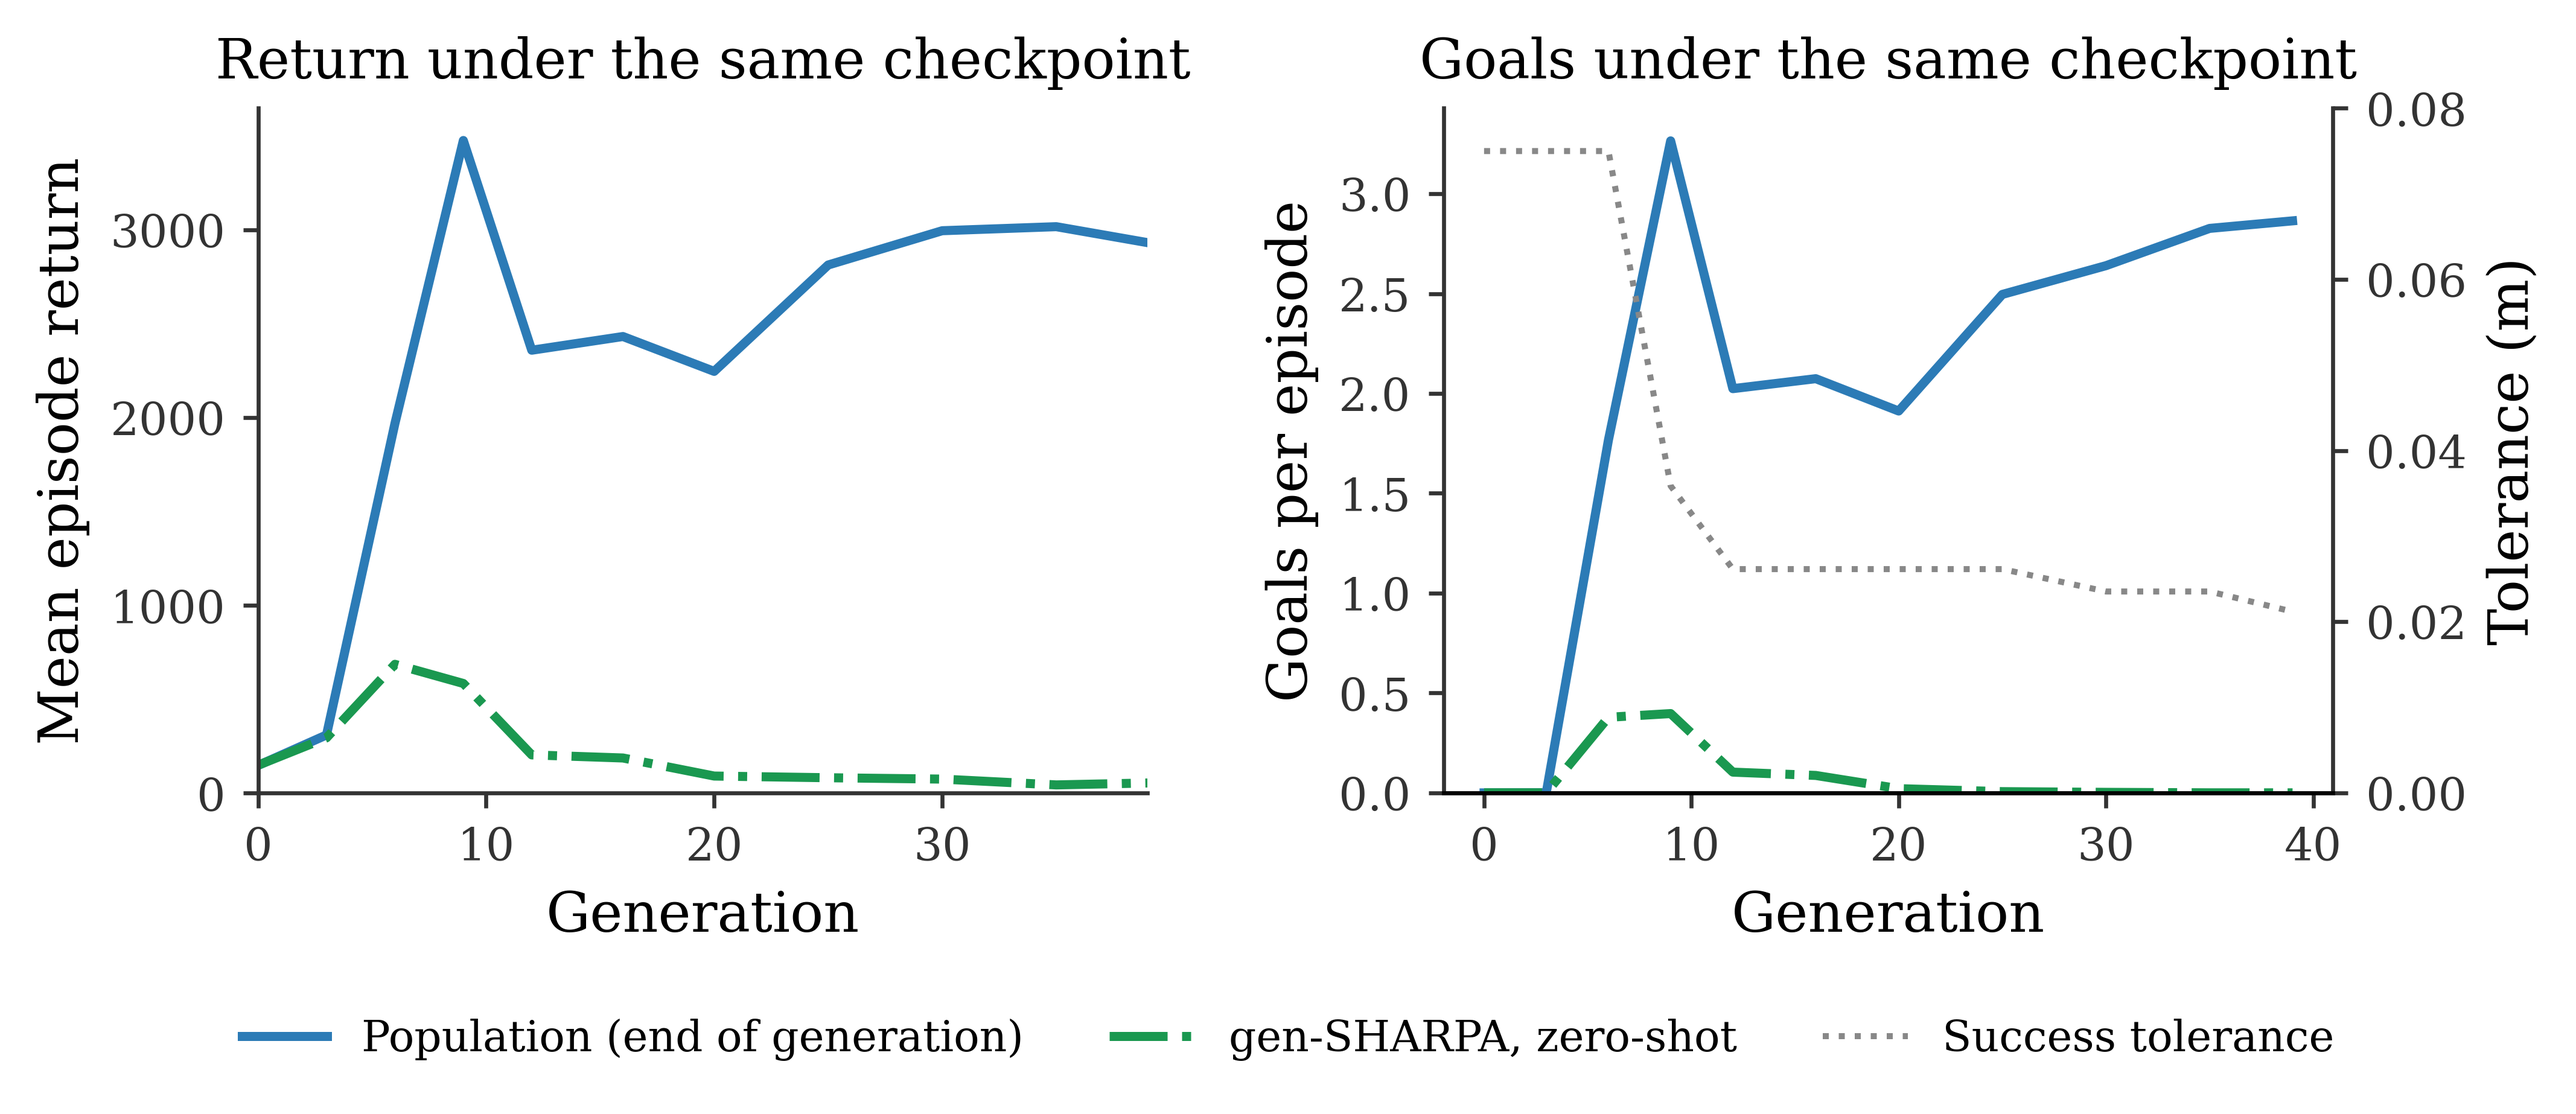
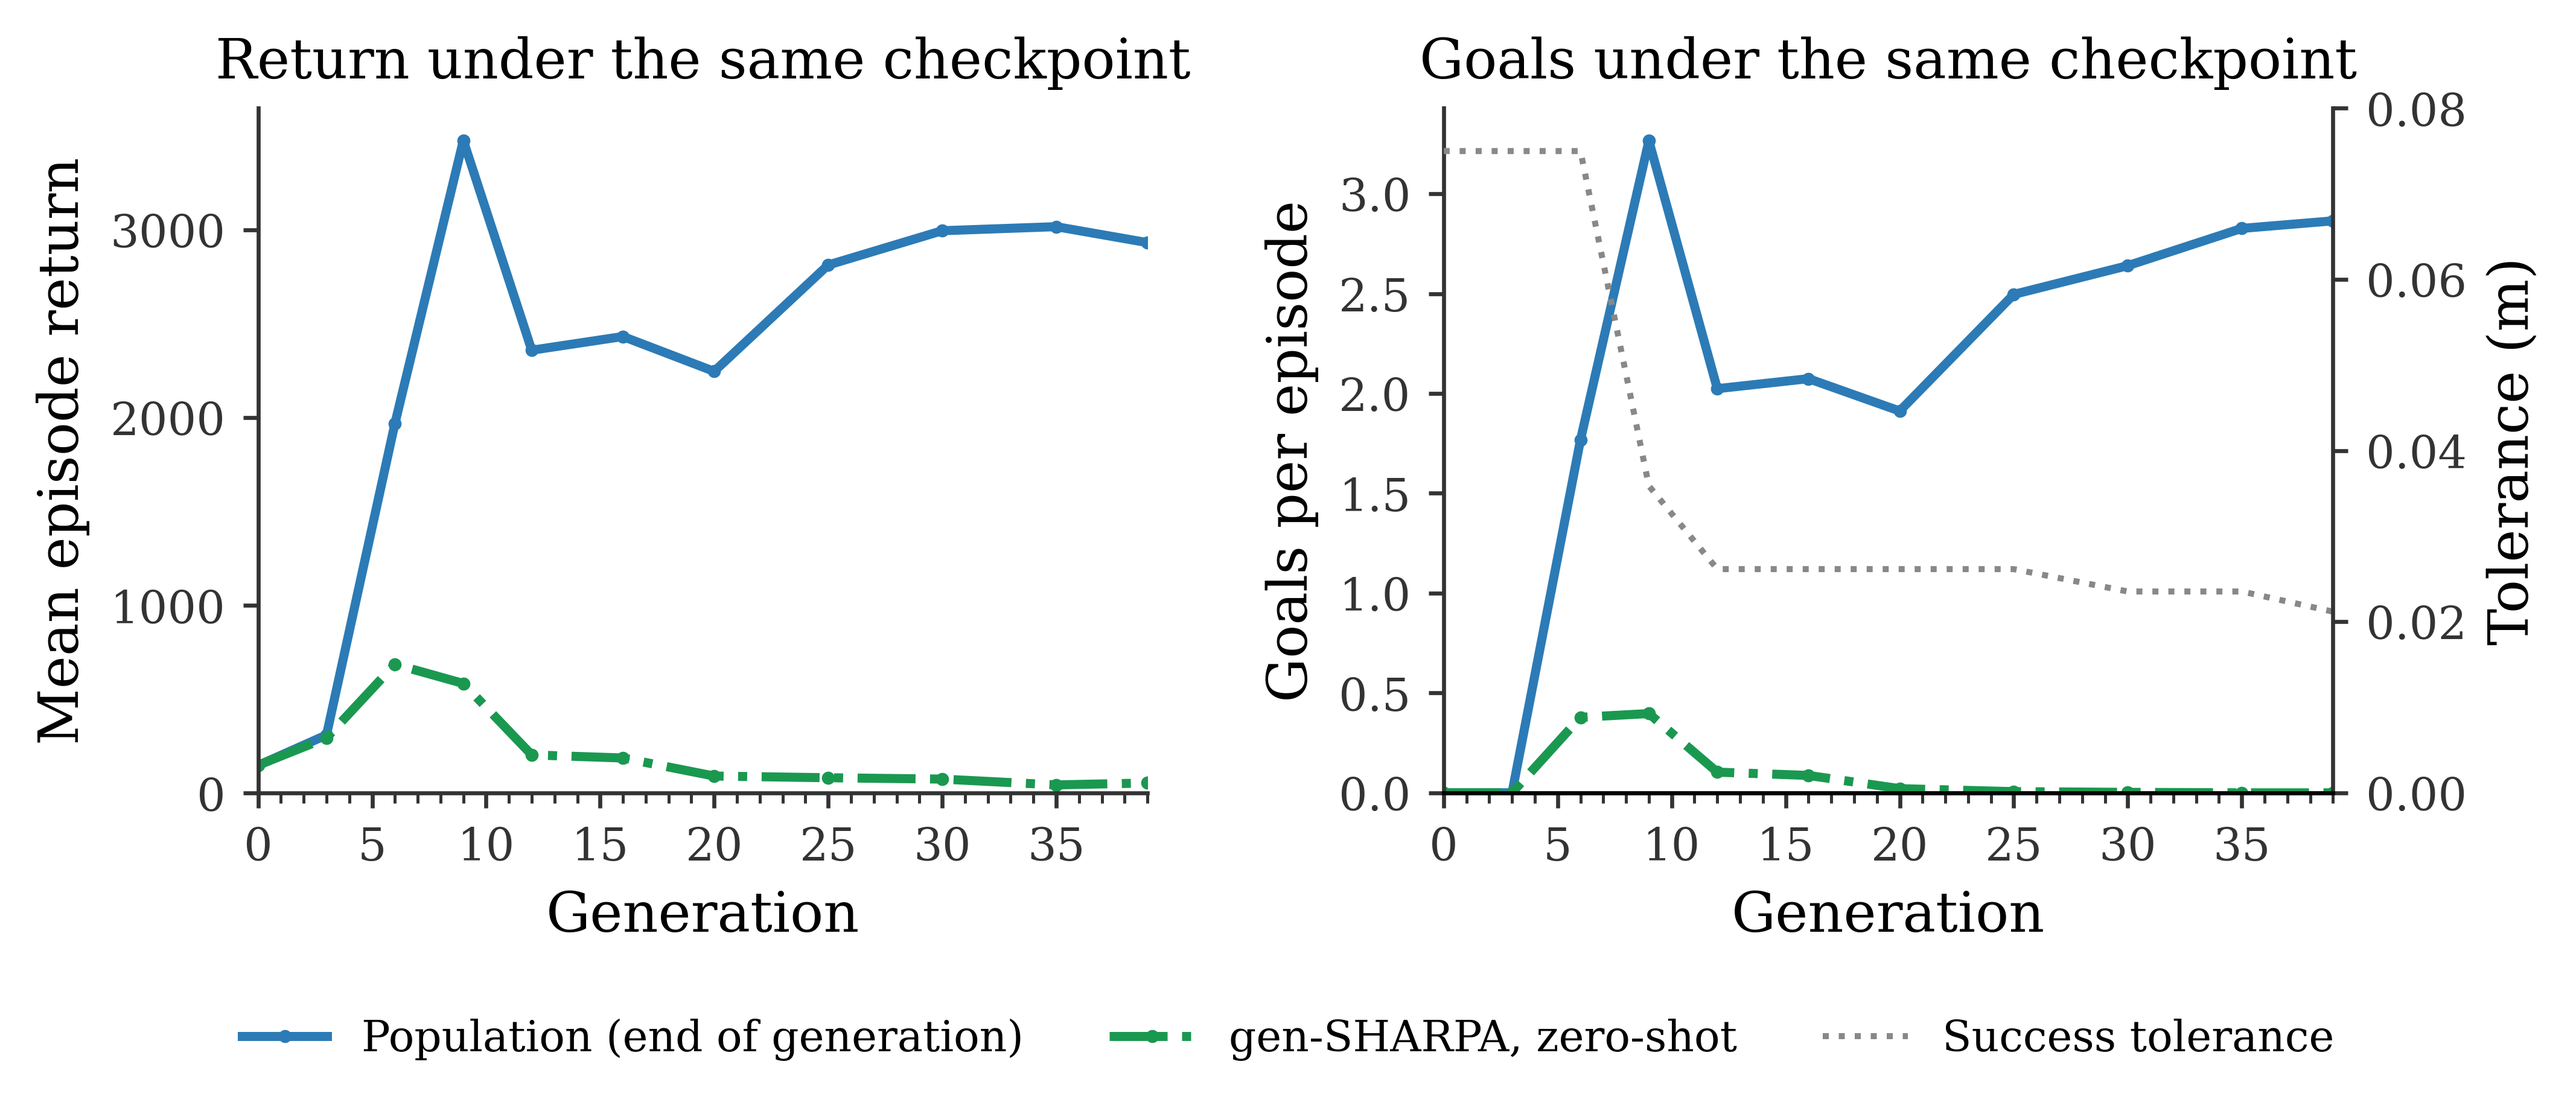
Audit training throughput, and measure population complexity per generation
GPU audit (single-card limits, measured on pinned nodes):
  - at the training minibatch of 114688, one GPU holds 12288 envs; 18432
    dies of torch.OutOfMemoryError. Two GPUs buy env count, not speed --
    1.84x throughput for 2x hardware, an ~8% all-reduce tax.
  - throughput saturates at ~71-72k fps across 18k-27.6k envs and a 4x
    minibatch range, so env count above ~18k is free in time, not in memory.
  - portal-compute-03 runs ~30% slower than -02/-04 at identical config
    (163907 vs 228474 fps step). An earlier unpinned sweep read that as a
    PhysX cliff at 24576 envs; a node-matched pair shows env count moves
    physics fps by 0.2%. Cross-node fps comparisons are not interpretable.
  - two OOM modes both report COMPLETED to slurm and must be grepped
    separately: PhysX "CUDA error, code 2" (sim dies, fps RISES) and
    torch.OutOfMemoryError (exits after ~2 epochs).

run.sh/run_rank.sh take GPUS and MINI_EPOCHS, both defaulting to what every
run so far used, so existing runs are unchanged.

plot_complexity.py answers the Sep 18 action item on whether evolution drives
designs toward complexity: mass, actuated joints, link length and inertia
about the mount, computed from the design alone via the same mass functions
the simulator builds from. On the 2k arm, gen 0 -> 40: mass +37%, joints
+43%, link length +64%, inertia +74% -- and essentially all of it lands
before fixation at gen 12, after which joints are flat and the rest drifts.
[…]

diff --git a/experiments/17sep_coevolution/analysis/plot_complexity.py b/experiments/17sep_coevolution/analysis/plot_complexity.py
@@ -1,0 +1,99 @@
+"""How expensive the population got: mass, actuation and inertia per generation.
+
+The Sep 18 action item asked whether evolution is driving designs toward
+complexity, and named mass and energy. Four measures, all computed from the
+design alone -- no rollout, so every generation is comparable:
+
+  mass        palm + real links, exactly as the simulator builds them
+              (build.palm_mass_props and build.link_mass_props). Ghost padding
+              links are 1e-6 kg and are excluded: they are envelope, not design.
+  joints      actuated degrees of freedom, i.e. how much there is to control
+  link length total structure, summed over every segment
+  inertia     mean principal moment about the palm mount. This is the closest
+              static stand-in for "energy": it is what the arm must accelerate
+              to move the hand, and unlike mass it charges for reach. Each link
+              is a solid cylinder about its own axis (local +x, verified against
+              link_frames: |tip-base| equals the segment length), rotated into
+              the palm frame and shifted to the mount by the parallel-axis
+              theorem; the palm uses its own box tensor about its centre.
+
+What this does NOT measure is actuation energy actually spent, which needs
+rollouts under a policy. These are properties of the morphology.
+
+    .venv_isaacsim/bin/python experiments/17sep_coevolution/analysis/plot_complexity.py [population_dir] [fixation_gen]
+"""
+import sys, json, pathlib
+sys.path[:0] = ["/share/portal/kk837/depthbasedRL/plot_figures"]
+import numpy as np, matplotlib; matplotlib.use("Agg"); import matplotlib.pyplot as plt
+from matplotlib.ticker import MultipleLocator
+from _style import configure_rcparams, style_axis, COLORS
+from hand_sampler import population_io, build
+
+configure_rcparams()
+R = pathlib.Path(sys.argv[1] if len(sys.argv) > 1 else "assets/populations/coevolution_v2_gen2k")
+FIX = int(sys.argv[2]) if len(sys.argv) > 2 else 12
+OUT = pathlib.Path(__file__).resolve().parent.parent / "plots"; OUT.mkdir(exist_ok=True)
+CACHE = pathlib.Path("debug_outputs/17sep_coevo_analysis/.curve_cache") / f"complexity_{R.name}.json"
+CACHE.parent.mkdir(parents=True, exist_ok=True)
+gens = sorted(int(p.name.split("_")[1]) for p in R.glob("gen_*") if (p / "population.json").exists())
+
+
+def hand_stats(h):
+    """(mass g, joints, total link length cm, mean principal moment g*cm^2)."""
+    frames = build.link_frames(h)
+    m_palm, I_palm = build.palm_mass_props(h)
+    c_palm = np.asarray(build.palm_center_offset(h), float)
+    # palm: its own tensor about its centre, shifted to the mount
+    I = I_palm + m_palm * (float(c_palm @ c_palm) * np.eye(3) - np.outer(c_palm, c_palm))
+    mass, length = m_palm, 0.0
+    for f, finger in enumerate(h.fingers[:h.n_fingers]):
+        for d, seg in enumerate(finger.segments):
+            m, (ixx, iyy, _) = build.link_mass_props(seg.length)
+            T = frames[(f, d)]; Rm = T[:3, :3]
+            com = T[:3, 3] + Rm @ np.array([seg.length / 2.0, 0.0, 0.0])
+            I_local = np.diag([ixx, iyy, iyy])          # +x is the link axis
+            I += Rm @ I_local @ Rm.T + m * (float(com @ com) * np.eye(3) - np.outer(com, com))
+            mass += m; length += seg.length
+    moment = float(np.trace(I)) / 3.0                    # mean principal moment
+    return 1000.0 * mass, h.n_joints, 100.0 * length, 1e7 * moment   # g, -, cm, g*cm^2
+
+
+rows = json.load(open(CACHE)) if CACHE.exists() else {}
+KEYS = ["mass", "joints", "link_len", "inertia"]
+for g in gens:
+    if str(g) in rows: continue
+    hands = population_io.load_population(R / f"gen_{g}/population.json")
+    vals = np.array([hand_stats(h) for h in hands], float)
+    rows[str(g)] = {k: vals[:, i].tolist() for i, k in enumerate(KEYS)}
+    print(f"  gen {g:3d}: mass {vals[:,0].mean():6.1f} g  joints {vals[:,1].mean():5.2f}  "
+          f"len {vals[:,2].mean():5.2f} cm  inertia {vals[:,3].mean():8.1f} g cm^2", flush=True)
+CACHE.write_text(json.dumps(rows))
+
+G = np.array(gens)
+PANELS = [("mass", "Hand mass", "g per hand"), ("joints", "Actuated joints", "joints per hand"),
+          ("link_len", "Total link length", "cm per hand"), ("inertia", "Inertia about mount", "g cm$^2$ per hand")]
+HERO = COLORS["play2win"]
+fig, axes = plt.subplots(2, 2, figsize=(7.0, 5.0))
+for ax, (key, title, ylab) in zip(axes.flat, PANELS):
+    v = np.array([rows[str(g)][key] for g in gens], float)
+    ax.fill_between(G, np.percentile(v, 25, axis=1), np.percentile(v, 75, axis=1),
+                    color=HERO, alpha=0.18, lw=0, label="IQR")
+    ax.plot(G, v.mean(1), color=HERO, label="Mean")
+    ax.axvline(FIX, color=COLORS["separator"], lw=0.8, ls=":")
+    ax.set_xlim(G[0], G[-1]); ax.set_xlabel("Generation"); ax.set_ylabel(ylab)
+    ax.set_title(title, fontsize=11, pad=6)
+    ax.xaxis.set_major_locator(MultipleLocator(10)); ax.xaxis.set_minor_locator(MultipleLocator(2))
+    style_axis(ax)
+    y0, y1 = ax.get_ylim()
+    ax.text(FIX + 0.7, y1 - 0.04 * (y1 - y0), f"fixation\n(gen {FIX})", fontsize=7.5, color="#555", va="top")
+h, l = axes.flat[0].get_legend_handles_labels()
+fig.legend(h, l, loc="lower center", bbox_to_anchor=(0.5, -0.03), ncol=2, frameon=False)
+fig.tight_layout(h_pad=1.6, w_pad=1.8)
+p = OUT / f"complexity_{R.name}.png"
+fig.savefig(p, dpi=600, bbox_inches="tight", pad_inches=0.1, facecolor="white"); print("wrote", p)
+
+print(f"\n  gen |   mass g |  joints | link cm | inertia g cm^2")
+for g in gens:
+    r = rows[str(g)]
+    print(f"  {g:3d} | {np.mean(r['mass']):8.1f} | {np.mean(r['joints']):7.2f} | "
+          f"{np.mean(r['link_len']):7.2f} | {np.mean(r['inertia']):14.1f}")

diff --git a/experiments/17sep_coevolution/analysis/plot_gen_sharpa.py b/experiments/17sep_coevolution/analysis/plot_gen_sharpa.py
@@ -26,6 +26,7 @@ the population with the harness at every generation (eval_population.py).
 import json, pathlib, sys
 sys.path[:0] = [str(pathlib.Path(__file__).resolve().parent), "/share/portal/kk837/depthbasedRL/plot_figures"]
 import numpy as np, matplotlib; matplotlib.use("Agg"); import matplotlib.pyplot as plt
+from matplotlib.ticker import MultipleLocator
 from _style import configure_rcparams, style_axis, COLORS
 import curves as C
 
@@ -54,18 +55,26 @@ sharpa = np.array([x["ret"] for x in rows]); goals = np.array([x["goals"] for x 
 tol = np.array([x["tolerance"] for x in rows])
 pop = np.array([endpoint(g) for g in G]); pop_goals = np.array([endpoint_goals(g) for g in G])
 
+def ticks(a):
+    """Label every 5th generation, tick every 1: the divergence sits between
+    gens 3 and 9, which a 10-wide tick spacing hides."""
+    a.xaxis.set_major_locator(MultipleLocator(5))
+    a.xaxis.set_minor_locator(MultipleLocator(1))
+    a.tick_params(axis="x", which="minor", length=2, width=0.6, colors=COLORS["spine"])
+
 fig, axes = plt.subplots(1, 2, figsize=(7.2, 2.8))
 ax = axes[0]
-ax.plot(G, pop, color=POP, label="Population (end of generation)")
-ax.plot(G, sharpa, color=IMIT, ls="-.", label="gen-SHARPA, zero-shot")
+ax.plot(G, pop, color=POP, marker="o", ms=2.6, mew=0, label="Population (end of generation)")
+ax.plot(G, sharpa, color=IMIT, ls="-.", marker="o", ms=2.6, mew=0, label="gen-SHARPA, zero-shot")
 ax.set_xlabel("Generation"); ax.set_ylabel("Mean episode return")
 ax.set_title("Return under the same checkpoint", fontsize=11, pad=6)
-ax.set_xlim(G[0], G[-1]); ax.set_ylim(0, None); style_axis(ax)
+ax.set_xlim(G[0], G[-1]); ax.set_ylim(0, None); style_axis(ax); ticks(ax)
 ax2 = axes[1]
-ax2.plot(G, pop_goals, color=POP, label="Population")
-ax2.plot(G, goals, color=IMIT, ls="-.", label="gen-SHARPA, zero-shot")
+ax2.plot(G, pop_goals, color=POP, marker="o", ms=2.6, mew=0, label="Population")
+ax2.plot(G, goals, color=IMIT, ls="-.", marker="o", ms=2.6, mew=0, label="gen-SHARPA, zero-shot")
 ax2.set_xlabel("Generation"); ax2.set_ylabel("Goals per episode"); ax2.set_ylim(0, None)
 ax2.set_title("Goals under the same checkpoint", fontsize=11, pad=6); style_axis(ax2)
+ax2.set_xlim(G[0], G[-1]); ticks(ax2)   # same span as the left panel
 ax3 = ax2.twinx()
 ax3.plot(G, tol, color=GREY, ls=":", lw=1.2, label="Success tolerance")
 ax3.set_ylabel("Tolerance (m)"); ax3.set_ylim(0, 0.08)
